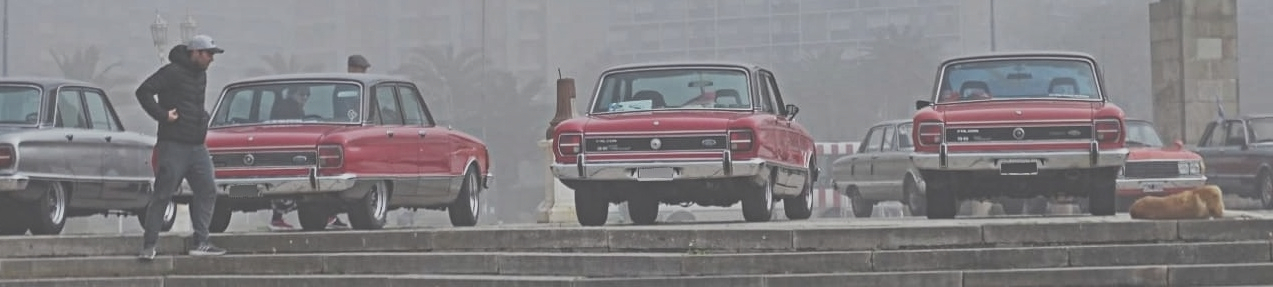
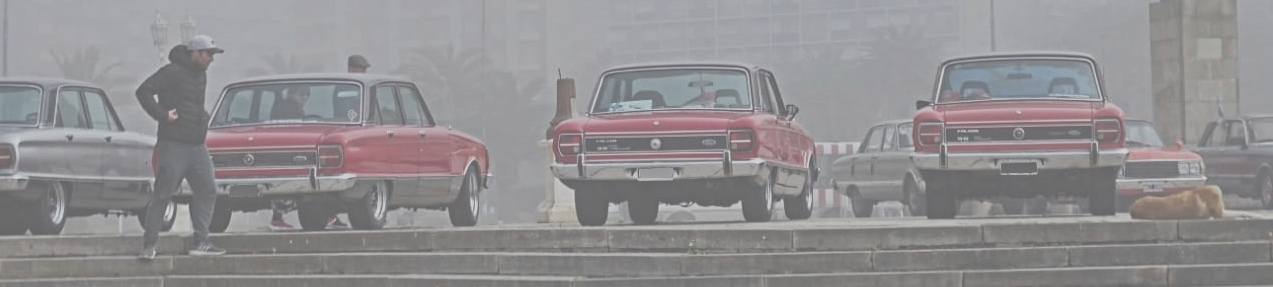
edited index2
Changed image opacity and text color

diff --git a/Week-2-hwk/index2.html b/Week-2-hwk/index2.html
@@ -18,7 +18,7 @@
         <main>
             <nav class="navbar navbar-expand-lg navbar-dark bg-primary">
                 <a class="navbar logo" href="#">
-                    <img src="images/1280px-Ford_logo_flat.svg.png" height="40" width="85" alt="ford logo">
+                    <img src="images/1280px-Ford_logo_flat.svg.png" height="40" width="90" alt="ford logo">
                 </a>
                 <div class="collapse navbar-collapse" id="navbarNav">
                     <ul class="navbar-nav">
@@ -41,8 +41,8 @@
 
         <section class="jumbotron text-center" style="background-image: url('images/IMG_9935.jpg')" opacity=".5" position="absolute">
           <div class="container">
-            <h1 class="jumbotron-heading" text color="white">Ford Falcon Engines</h1>
-            <p class="lead text-muted">From 1961 to 1991 six different inline-6 engines of variouys sizes powered the Ford Falcon</p>
+            <h1 class="jumbotron-heading text-white" >Ford Falcon Engines</h1>
+            <p class="lead text-white">From 1961 to 1991 six different inline-6 engines of various sizes powered the Ford Falcon</p>
           </div>
         </section>
       
